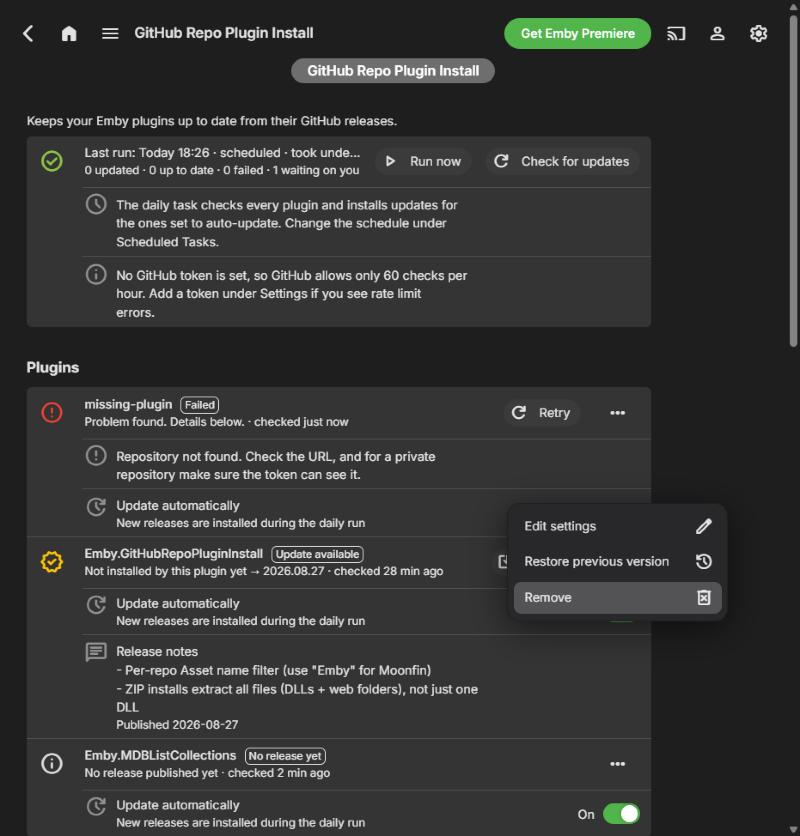
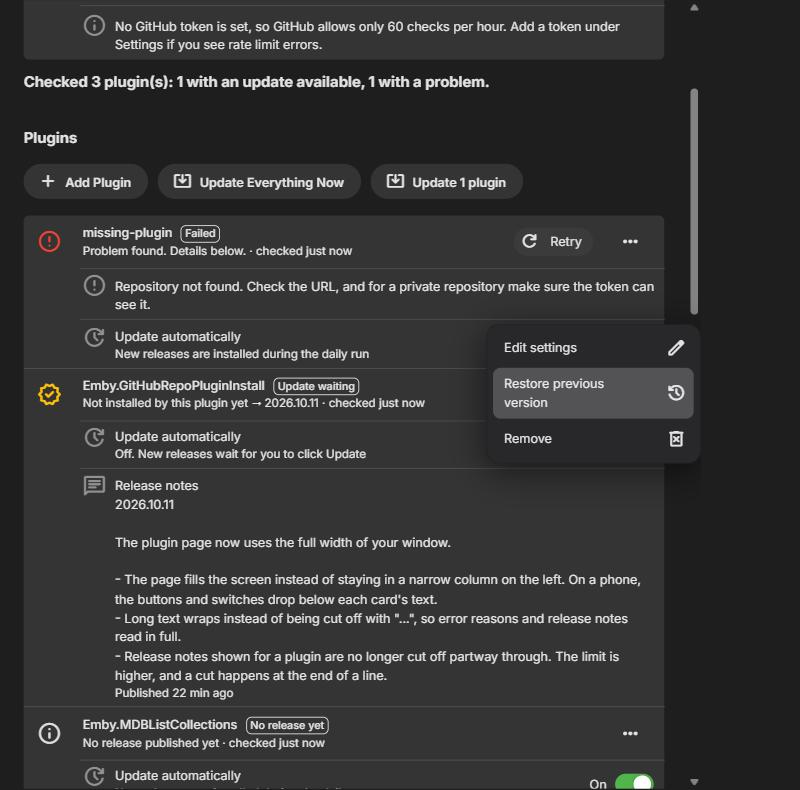
Move the plugin buttons above the cards, update-N last
Add Plugin, Update Everything Now and the conditional Update N plugins
button now sit in one row above the plugin cards. README and screenshots
updated.

diff --git a/Emby.GitHubRepoPluginInstall/Models/PluginUIOptions.cs b/Emby.GitHubRepoPluginInstall/Models/PluginUIOptions.cs
@@ -50,22 +50,7 @@ public class PluginUIOptions : EditableOptionsBase
     [DontSave]
     public CaptionItem CaptionLatestReleases { get; set; } = new CaptionItem("Plugins");
 
-    /// <summary>
-    /// Sits above the plugin cards and is only visible while at least one plugin has an update. It installs those
-    /// plugins and nothing else. The caption and the confirmation text are filled in when the page is built.
-    /// </summary>
-    [DontSave]
-    public ButtonItem UpdateAvailableBtn { get; set; } = new ButtonItem
-                                                         {
-                                                             Caption   = "Update plugins with updates",
-                                                             Data1     = "UpdateAvailable",
-                                                             Icon      = IconNames.system_update_alt,
-                                                             IsVisible = false
-                                                         };
-
-    [DisplayName("Status of each plugin")]
-    [DontSave]
-    public GenericItemList Releases { get; set; } = new GenericItemList();
+    // The three buttons below sit in one row above the cards, in this order. The last one only shows when needed.
 
     [DontSave]
     public ButtonItem Add =>
@@ -86,11 +71,29 @@ public class PluginUIOptions : EditableOptionsBase
             ConfirmationPrompt = "Install the newest release of every plugin in the list, including ones with auto-update turned off?"
         };
 
+    /// <summary>
+    /// The end of the button row. Only visible while at least one plugin has an update, and it installs those plugins
+    /// and nothing else. The caption and the confirmation text are filled in when the page is built.
+    /// </summary>
+    [DontSave]
+    public ButtonItem UpdateAvailableBtn { get; set; } = new ButtonItem
+                                                         {
+                                                             Caption   = "Update plugins with updates",
+                                                             Data1     = "UpdateAvailable",
+                                                             Icon      = IconNames.system_update_alt,
+                                                             IsVisible = false
+                                                         };
+
+    /// <summary>Messages about adding, removing, editing and restoring plugins, right under the buttons.</summary>
     [DontSave]
     public CaptionItem RepoLogs { get; set; } = new CaptionItem("")
                                                {
                                                    IsVisible = false
                                                };
+
+    [DisplayName("Status of each plugin")]
+    [DontSave]
+    public GenericItemList Releases { get; set; } = new GenericItemList();
 
     [Browsable(false)]
     public List<ReposToProcess> Repos { get; set; } = new List<ReposToProcess>();

diff --git a/Emby.GitHubRepoPluginInstall.Tests/MainPageViewTests.cs b/Emby.GitHubRepoPluginInstall.Tests/MainPageViewTests.cs
@@ -148,6 +148,26 @@ public class MainPageViewTests
         Assert.Empty(o.RunHistory);
     }
 
+    // The page is drawn in the order the properties are declared, so this is what puts the three buttons in one row
+    // above the cards, with the "Update N plugins" button last.
+    [Fact]
+    public void ThePluginButtons_SitAboveTheCards_InOneRow_WithTheConditionalOneLast()
+    {
+        int Position(string name) => typeof(PluginUIOptions).GetProperty(name)!.MetadataToken;
+
+        var order = new[]
+        {
+            nameof(PluginUIOptions.CaptionLatestReleases),
+            nameof(PluginUIOptions.Add),
+            nameof(PluginUIOptions.UpdateAll),
+            nameof(PluginUIOptions.UpdateAvailableBtn),
+            nameof(PluginUIOptions.RepoLogs),       // messages about those actions, right under the buttons
+            nameof(PluginUIOptions.Releases)        // the cards
+        };
+
+        Assert.Equal(order.OrderBy(Position).ToArray(), order);
+    }
+
     [Fact]
     public void ThePageModel_BuildsItsButtonsAndLists()
     {

diff --git a/ReadMe.md b/ReadMe.md
@@ -17,7 +17,7 @@ The top of the page tells you what needs attention before anything else.
   - The **Update automatically** switch under the card turns auto-update on or off for that plugin.
   - The **⋯** menu has **Edit settings**, **Restore previous version** and **Remove**.
   - Release notes sit underneath.
-  - **Update N plugins**, above the cards, appears only while at least one plugin shows an update. It installs just those plugins, including ones with auto-update off, and leaves the rest alone. It asks first and names them.
+  - **Update N plugins**, the last of three buttons in a row above the cards (after **Add Plugin** and **Update Everything Now**), appears only while at least one plugin shows an update. It installs just those plugins, including ones with auto-update off, and leaves the rest alone. It asks first and names them.
 - **Run history** keeps the last 10 runs with the result for each plugin. The Emby activity log gets one summary entry per run, plus an entry for each plugin that was installed or failed. Plugins that were already up to date no longer add an entry each.
 
 Opening the page never contacts GitHub. It shows what the last check found, so it opens instantly and doesn't use up your request allowance.
@@ -42,7 +42,7 @@ A classic token with the `repo` scope also works, but it can read all of your pr
 
 ### Adding repositories
 
-1. Click **Add Plugin**, under the plugin cards.
+1. Click **Add Plugin**, in the row of buttons above the plugin cards.
 2. Pick a plugin from the registry list, or type the repository. All of these work: `owner/repository`, `https://github.com/owner/repository`, a `.git` address, or a link to the releases page. The address is saved in one standard form.
 3. **Auto Update** installs new releases during the daily run. With it off, the plugin still checks the repository and shows the update, and you install it with the **Update** button.
 4. **Allow PreRelease Versions** includes releases marked as pre-releases.
@@ -58,7 +58,7 @@ The first time the page is opened, this repository is added to your list so the 
 
 - **Daily task** (Scheduled Tasks, "Update Plugins From Github Repos") installs updates for repositories with Auto Update on and checks the rest.
 - **Restart behavior.** The daily task never restarts Emby unless you turn on *Restart Emby automatically after scheduled updates*. Updates you start from the page never restart the server on their own. Either way the **Restart needed** banner shows what changed.
-- **Update Everything Now** (under the cards) checks every repository on GitHub again and installs the newest release of each, including ones with Auto Update off and ones that have not been checked yet. To update only the plugins that already show an update, use **Update N plugins** above the cards.
+- **Update Everything Now** (above the cards) checks every repository on GitHub again and installs the newest release of each, including ones with Auto Update off and ones that have not been checked yet. To update only the plugins that already show an update, use **Update N plugins**, the last button in that row.
 
 ### Backups and rollback
 
